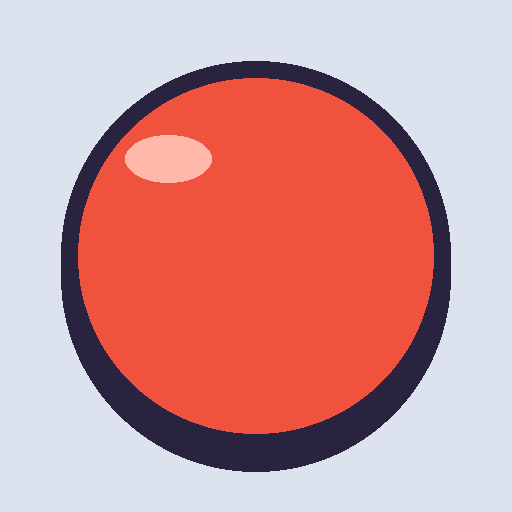
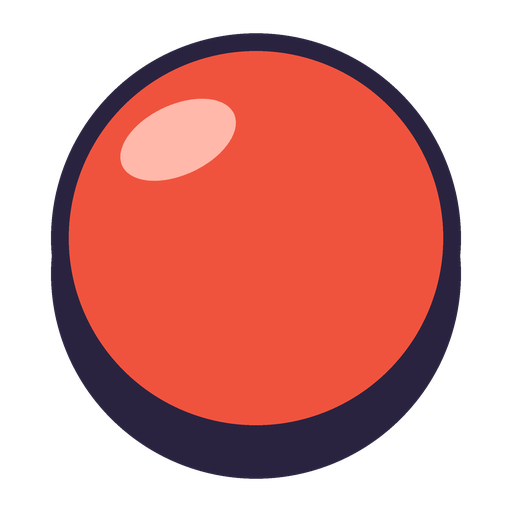
이름을 '손 많이 가는 버튼'으로, 배경 없는 빨간 버튼 아이콘
- 앱 이름·홈 화면 이름·시작 화면 제목·결과 카드 변경
- 아이콘: 배경 없는 빨간 버튼
- 버튼 말풍선이 화면 밖으로 잘리면 아래나 안쪽으로 자동 이동
- 구독 해지·물약 제조 버튼 위치 조정

Claude-Session: https://claude.ai/code/session_016CmaycT6U3vdfpXCYSBRZ8

diff --git a/index.html b/index.html
@@ -7,13 +7,13 @@
 <meta name="description" content="누르면 아무 일도 일어나지 않는 버튼. 문제는 누르기까지입니다.">
 <meta name="apple-mobile-web-app-capable" content="yes">
 <meta name="mobile-web-app-capable" content="yes">
-<meta name="apple-mobile-web-app-title" content="쓸모없는 버튼">
+<meta name="apple-mobile-web-app-title" content="손 많이 가는 버튼">
 <meta name="apple-mobile-web-app-status-bar-style" content="default">
 <link rel="manifest" href="manifest.webmanifest">
 <link rel="icon" href="icon-192.png">
 <link rel="apple-touch-icon" href="apple-touch-icon.png">
 <style>:root{color-scheme:light;padding-top:env(safe-area-inset-top,0px);padding-bottom:env(safe-area-inset-bottom,0px)}body{margin:0;font:14px system-ui,sans-serif;-webkit-tap-highlight-color:transparent;overscroll-behavior:none}img{max-width:100%}[hidden]{display:none!important}</style>
-<title>쓸모없는 버튼</title>
+<title>손 많이 가는 버튼</title>
 
 <link rel="preconnect" href="https://fonts.googleapis.com">
 <link rel="stylesheet" href="https://fonts.googleapis.com/css2?family=Do+Hyeon&family=Gowun+Dodum&display=swap">
@@ -513,6 +513,9 @@ body{word-break:keep-all;overflow-wrap:break-word}
 .titi.tnone.eq{border-style:solid}
 .bzone{position:absolute;transform:translate(-50%,-50%);width:58px;height:58px;border-radius:50%;border:3px dashed #FFE36E;color:#FFE36E;font-family:var(--display);font-size:12px;display:grid;place-items:center;z-index:1;pointer-events:none;transition:background .15s}
 .bzone.hot{background:rgba(255,227,110,.35)}.bzone.pop2{animation:pop .4s}
+.bsay.below{bottom:auto;top:100%;transform:translate(-50%,12px)}
+.bsay.below::after{top:auto;bottom:100%;border-top-color:transparent;border-bottom-color:#2A2340}
+.bsay.inside{bottom:auto;top:50%;transform:translate(-50%,-50%)}.bsay.inside::after{display:none}
 @media (prefers-reduced-motion: reduce){*{animation-duration:.01ms!important;transition-duration:.01ms!important}}
 </style>
 
@@ -520,7 +523,7 @@ body{word-break:keep-all;overflow-wrap:break-word}
 <body>
 <div class="wrap">
   <section id="home">
-    <header class="hhead"><button type="button" class="gear" id="setbtn" aria-label="설정"><svg viewBox="0 0 24 24" width="22" height="22" aria-hidden="true"><path fill="currentColor" d="M19.4 13a7.6 7.6 0 0 0 0-2l2.1-1.6-2-3.5-2.5 1a7.4 7.4 0 0 0-1.7-1L15 3h-4l-.4 2.7a7.4 7.4 0 0 0-1.7 1l-2.5-1-2 3.5L6.6 11a7.6 7.6 0 0 0 0 2l-2.1 1.6 2 3.5 2.5-1c.5.4 1.1.7 1.7 1L11 21h4l.4-2.7c.6-.3 1.2-.6 1.7-1l2.5 1 2-3.5L19.4 13ZM13 15.5a3.5 3.5 0 1 1 0-7 3.5 3.5 0 0 1 0 7Z" transform="translate(-1 0)"/></svg></button><h1>세상에서 제일 쓸모없는 버튼</h1><p>누르면 아무 일도 일어나지 않습니다. 문제는 누르기까지입니다.</p></header>
+    <header class="hhead"><button type="button" class="gear" id="setbtn" aria-label="설정"><svg viewBox="0 0 24 24" width="22" height="22" aria-hidden="true"><path fill="currentColor" d="M19.4 13a7.6 7.6 0 0 0 0-2l2.1-1.6-2-3.5-2.5 1a7.4 7.4 0 0 0-1.7-1L15 3h-4l-.4 2.7a7.4 7.4 0 0 0-1.7 1l-2.5-1-2 3.5L6.6 11a7.6 7.6 0 0 0 0 2l-2.1 1.6 2 3.5 2.5-1c.5.4 1.1.7 1.7 1L11 21h4l.4-2.7c.6-.3 1.2-.6 1.7-1l2.5 1 2-3.5L19.4 13ZM13 15.5a3.5 3.5 0 1 1 0-7 3.5 3.5 0 0 1 0 7Z" transform="translate(-1 0)"/></svg></button><h1>손 많이 가는 버튼</h1><p>누르면 아무 일도 일어나지 않습니다. 문제는 누르기까지입니다.</p></header>
     <div class="hero"><div class="greet" id="greet"></div><button class="big" id="startbtn" type="button"><span>시작하기</span></button><button type="button" class="tbadge" id="h-title" aria-haspopup="dialog"></button><div class="hmeta"><span id="h-total"></span></div></div>
     <div class="tpick" id="tpick" hidden><div class="tpbox"><div class="sechead"><h2>칭호 달기</h2><button type="button" class="backhome tpx" id="tpclose">닫기</button></div><div class="titlelist" id="tplist"></div></div></div>
     <div class="hcard"><h3>난이도</h3><div class="tgl" id="lvsel"><button type="button" data-l="0" aria-pressed="true">쉬움</button><button type="button" data-l="1" aria-pressed="true">보통</button><button type="button" data-l="2" aria-pressed="true">어려움</button></div><div class="hint" id="lvhint"></div></div>
@@ -2009,7 +2012,7 @@ OB.push(
   const b=add(realBtn('결제중','gray'));pos(b,W()/2,80);b.style.scale=.7;b.locked=true;const pn=add(el('div','menu'));
   const page=(title,items)=>{pn.innerHTML=`<h4>${title}</h4>`;items.forEach(([t,f,cls])=>{const x=el('button','mi '+(cls||''),t);x.type='button';x.onclick=f;pn.appendChild(x)})};
   const wrong=()=>{awk('엉뚱한 메뉴예요. 처음으로.');home()};let k=0;
-  const offer=()=>{if(k>=offers){page('해지 완료',[['확인',()=>{pn.remove();b.classList.remove('gray');setLabel(b,'무료');b.style.scale=1;b.locked=false}]]);return}
+  const offer=()=>{if(k>=offers){page('해지 완료',[['확인',()=>{pn.remove();b.classList.remove('gray');setLabel(b,'무료');b.style.scale=1;b.style.transition='top .5s';pos(b,W()/2,H()/2);b.locked=false}]]);return}
     const O=['지금 해지하면 감자 쿠폰이 사라져요!','50% 할인해 드릴게요!','버튼이 울고 있어요. 정말요?'];page(O[k],shuffle([['혜택 받고 계속 쓰기',()=>{awk('계속 쓰기를 눌렀어요. 처음부터…');k=0;home()},'big2'],['그래도 해지할래요',()=>{k++;offer()},'tiny']]))};
   const home=()=>page('버튼 프리미엄',shuffle([['내 정보',wrong],['고객센터',wrong],['설정',()=>page('설정',shuffle([['알림',wrong],['계정',()=>page('계정',shuffle([['프로필',wrong],['결제 관리',()=>page('결제 관리',shuffle([['결제 수단',wrong],['구독 관리',()=>page('구독 관리',[['구독 해지',offer,'tiny'],['구독 업그레이드',wrong,'big2']])],['영수증',wrong]]))],['보안',wrong]]))],['화면',wrong]]))],['이벤트',wrong]]));home();
   b.addEventListener('click',()=>{if(b.locked)say('결제 중인 버튼은 안 눌려요.')});say('메뉴를 뒤져서 구독을 해지하세요.');
@@ -2043,10 +2046,10 @@ OB.push(
 }},
 {name:'물약 제조',bg:'castle',story:'투명해진 버튼을 되돌리려면 물약이 필요해요.',run(lv){const B=mkB(lv);const k=B(2,3,4);const C=[['#E23B3B','빨강'],['#6E7CF2','파랑'],['#F2C94C','노랑'],['#5FB59A','초록']];
   const rec=[...Array(k)].map(()=>pick(C));const card=bubble('레시피: '+rec.map(x=>x[1]).join(' → '),12);if(lv===2)after(3500,()=>{card.textContent='레시피: (기억하세요)'});
-  const cd=sprite('cauldron',150,W()/2,H()*.42);cd.style.pointerEvents='none';let i2=0;const ghostB=add(el('div','cbtn ghostb'));pos(ghostB,W()/2,H()*.18);
+  const cd=sprite('cauldron',150,W()/2,H()*.56);cd.style.pointerEvents='none';let i2=0;const ghostB=add(el('div','cbtn ghostb'));pos(ghostB,W()/2,H()*.29);
   C.forEach(([col,nm],i)=>{const x=(i+.5)*W()/4,y=H()-56;const j=sprite('x',60,x,y,ART.jar(col));drag(j,{end:(px,py)=>{springBack(j,x,y);if(dist(px,py,gx(cd),gy(cd))>80)return;
-    if(rec[i2][1]===nm){i2++;cd.innerHTML=ART.cauldron.replace('#7CD67E',col);floatUp('뽀글',W()/2,H()*.34);if(i2>=k){say('물약 완성! 버튼에 뿌렸어요.');ghostB.remove();const b=add(realBtn('보인다','pop'));pos(b,W()/2,H()*.18);b.style.scale=.8}}
-    else{i2=0;cd.innerHTML=ART.cauldron;puff(W()/2,H()*.4,W()/2,H()*.2);awk('펑! 순서가 틀렸어요. 처음부터.')}}})});
+    if(rec[i2][1]===nm){i2++;cd.innerHTML=ART.cauldron.replace('#7CD67E',col);floatUp('뽀글',W()/2,H()*.48);if(i2>=k){say('물약 완성! 버튼에 뿌렸어요.');ghostB.remove();const b=add(realBtn('보인다','pop'));pos(b,W()/2,H()*.29);b.style.scale=.8}}
+    else{i2=0;cd.innerHTML=ART.cauldron;puff(W()/2,H()*.54,W()/2,H()*.34);awk('펑! 순서가 틀렸어요. 처음부터.')}}})});
   say('레시피 순서대로 병을 솥에 넣으세요.');
 }},
 {name:'램프의 요정',bg:'sea',story:'버튼이 램프 속에 갇혔어요. 요정을 불러내세요.',run(lv){const B=mkB(lv);const need=B(1,2,3);
@@ -2406,7 +2409,9 @@ const ENDS={'고양이 습격':'침 좀 묻었지만 괜찮아. 눌러줘.','과
 const GEN_ENDS=['이제 눌러줘.','고생했어. 눌러도 돼.','기다렸어. 눌러줘.','여기야, 눌러줘!','이제 진짜 눌려줄게.','준비됐어. 꾹!'];
 const toneLine=t=>TONES[VAR.tone].f(t);
 function finale(b){if(!b||b._fin||won)return;b._fin=1;if(!OB[cur].keepTools)setTimeout(()=>{if(!won&&!b.locked)stage.querySelectorAll(':scope > .tools').forEach(t=>t.remove())},0);const line=toneLine(ENDS[OB[cur].name]||pick(GEN_ENDS));SFX.ding();
-  const sc=parseFloat(b.style.scale||1);if(b.isConnected&&sc>=.5){const bb=el('div','bsay',line);b.appendChild(bb);setTimeout(()=>bb.remove(),2600)}
+  const sc=parseFloat(b.style.scale||1);if(b.isConnected&&sc>=.5){const bb=el('div','bsay',line);b.appendChild(bb);const fit=()=>{if(!bb.isConnected)return;const sr=stage.getBoundingClientRect();let q=bb.getBoundingClientRect();if(q.top<sr.top+6){bb.classList.add('below');q=bb.getBoundingClientRect()}
+    if(q.bottom>sr.bottom-6&&bb.classList.contains('below')){bb.classList.remove('below');bb.classList.add('inside');q=bb.getBoundingClientRect()}
+    let dx=0;if(q.left<sr.left+6)dx=sr.left+6-q.left;else if(q.right>sr.right-6)dx=sr.right-6-q.right;if(dx)bb.style.marginLeft=dx+'px'};requestAnimationFrame(fit);setTimeout(fit,550);setTimeout(()=>bb.remove(),2800)}
   after(1300,()=>{if(!won)say('버튼: '+line)})}
 const _realBtn=realBtn;realBtn=(label='누르기',cls='')=>{const b=el('button','big '+cls,'<span>'+label+'</span>');let lk=false;
   Object.defineProperty(b,'locked',{get:()=>lk,set:v=>{const was=lk;lk=v;if(was&&!v)finale(b)}});
@@ -2498,7 +2503,7 @@ function win(msg){if(won)return;won=true;
   ov.querySelector('#cardBtn').onclick=()=>resultCard(hist,sec);say('')}
 function resultCard(hist,sec){const t=D.equip?TITLES.find(x=>x[0]===D.equip)[1]:'무명의 누름이';const nm=hist.map(subVar);
   const story=RUN.mode==='day'?`버튼의 하루를 ${sec.toFixed(0)}초 만에 버텨냄`:`${nm.join(' → ')}을(를) ${sec.toFixed(1)}초 만에 뚫고 버튼을 누름`;
-  const text=`[세상에서 제일 쓸모없는 버튼]\n${t} · 누른 횟수 ${D.total}번\n오늘 ${story}${RUN.twisted?' (반전: '+RUN.twistName+')':''}${RUN.gold?' ✨황금 버튼':''}\n결과: 아무 일도 일어나지 않음`;
+  const text=`[손 많이 가는 버튼]\n${t} · 누른 횟수 ${D.total}번\n오늘 ${story}${RUN.twisted?' (반전: '+RUN.twistName+')':''}${RUN.gold?' ✨황금 버튼':''}\n결과: 아무 일도 일어나지 않음`;
   const c=add(el('div','rcard',`<div class="rc"><small>결과 카드</small><b>${t}</b><p>${story}${RUN.twisted?`<br>반전: ${RUN.twistName}`:''}${RUN.gold?'<br>황금 버튼!':''}</p><p class="rq">결과: 아무 일도 일어나지 않음</p><div class="row"><button class="tool primary" type="button" id="cpy">글로 복사</button><button class="tool" type="button" id="cls">닫기</button></div></div>`));
   c.querySelector('#cls').onclick=()=>c.remove();c.querySelector('#cpy').onclick=e=>{const b=e.target;navigator.clipboard&&navigator.clipboard.writeText?navigator.clipboard.writeText(text).then(()=>b.textContent='복사됨',()=>{b.textContent='복사 안 됨';prompt2(text)}):prompt2(text)};
   function prompt2(t){const ta=el('textarea','rta');ta.value=t;c.querySelector('.rc').appendChild(ta);ta.select()}}

diff --git a/sw.js b/sw.js
@@ -1,5 +1,5 @@
-const CACHE='useless-button-v11';
-const CORE=['./','./index.html','./manifest.webmanifest','./icon-192.png','./icon-512.png','./icon-maskable.png','./apple-touch-icon.png'];
+const CACHE='useless-button-v12';
+const CORE=['./','./index.html','./manifest.webmanifest','./icon-192.png','./icon-512.png','./apple-touch-icon.png'];
 self.addEventListener('install',e=>{e.waitUntil(caches.open(CACHE).then(c=>c.addAll(CORE)).then(()=>self.skipWaiting()))});
 self.addEventListener('activate',e=>{e.waitUntil(caches.keys().then(ks=>Promise.all(ks.filter(k=>k!==CACHE).map(k=>caches.delete(k)))).then(()=>self.clients.claim()))});
 self.addEventListener('fetch',e=>{const r=e.request;if(r.method!=='GET')return;

diff --git a/README.md b/README.md
@@ -1,4 +1,4 @@
-# 세상에서 제일 쓸모없는 버튼
+# 손 많이 가는 버튼
 
 누르면 아무 일도 일어나지 않는 버튼. 문제는 누르기까지입니다.
 
